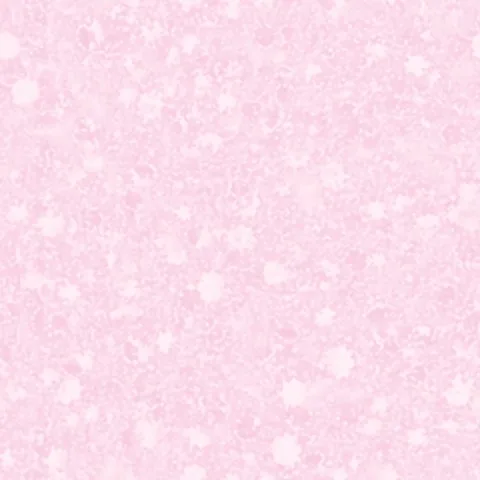
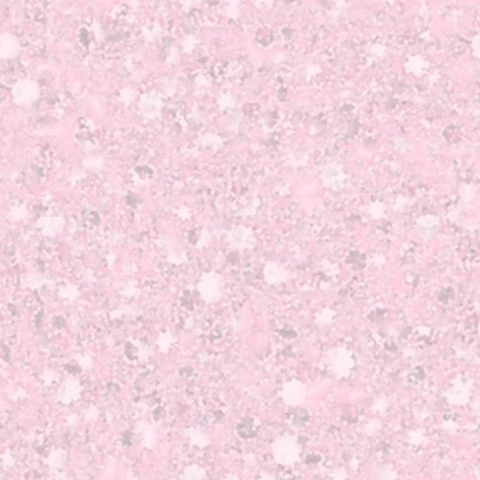
Lifestyle: match the home page look on every Lifestyle page; crisp glitter backgrounds site-wide
- Lifestyle pages now use the home page header (logo, nav, glitter drip) and footer
- Home page textures, white cards, pink-star pill buttons and kickers across Lifestyle
- Replace the blurry blotchy blush and bubblegum textures with crisp glitter (fixes home page sections and footer too)

Claude-Session: https://claude.ai/code/session_012hUCWDfECfivmHsQx64SRP

diff --git a/src/styles/lifestyle.css b/src/styles/lifestyle.css
@@ -419,3 +419,70 @@ body:has(.life-article-world) .sf-col h2{font:600 14px/1.4 Inter,sans-serif!impo
 .life.life-article-world{position:relative;isolation:isolate}
 .life.life-article-world::before{content:"";position:absolute;left:0;right:0;top:0;height:340px;z-index:-1;background:var(--gl-flecks),var(--gl-white),var(--gl-pink),var(--gl-gold),#f39dc2;background-size:110px 110px,140px 140px,97px 97px,121px 121px,auto;box-shadow:inset 0 -12px 18px -10px #9a1d5059}
 @media(max-width:760px){.life.life-article-world::before{height:220px}}
+
+/* ===== HOME PAGE LOOK FOR ALL LIFESTYLE PAGES (Jodie, 10 Oct 2026) =====
+   Same textures, cards, buttons, kickers and type as src/styles/home.css. */
+.life,.life.life-article-world{--hp-pink:#D62E73;--hp-deep:#B8245F;--hp-ink2:#4A3640;--hp-gold:#C8A96A;--hp-star:polygon(50% 0,62% 38%,100% 50%,62% 62%,50% 100%,38% 62%,0 50%,38% 38%);--hp-lift:0 30px 56px -34px rgba(110,10,50,.6);background:url(/images/brand/sh-blush.webp) 0 0/480px 480px!important;padding-top:0!important}
+.life.life-article-world::before,.life-halloween-background{display:none!important}
+.life h1 span,.life h2 span{color:var(--hp-pink)}
+.life p,.life .life-intro{color:var(--hp-ink2)}
+/* kickers: + LABEL + */
+.life .life-kicker{border:0!important;background:none!important;padding:0!important;border-radius:0!important;box-shadow:none!important;display:inline-flex!important;align-items:center;gap:10px;color:var(--hp-deep)!important;font:700 12px/1.5 Inter,sans-serif!important;letter-spacing:.24em!important}
+.life .life-kicker::before,.life .life-kicker::after{content:"";flex:none;width:10px;height:10px;background:var(--hp-pink);clip-path:var(--hp-star)}
+.life .life-card-copy .life-kicker,.life .life-lookbook-card .life-kicker{font-size:11px!important;letter-spacing:.18em!important}
+.life .life-card-copy .life-kicker::before,.life .life-card-copy .life-kicker::after,.life .life-lookbook-card .life-kicker::before,.life .life-lookbook-card .life-kicker::after{display:none}
+/* buttons: white pill, pink line, pink star */
+.life .life-button,.life .life-button-outline{min-height:48px;padding:0 26px;border-radius:999px;background:#fff!important;border:1.5px solid #E891B6!important;color:#1A1417!important;font:700 12.5px/1.2 Inter,sans-serif!important;letter-spacing:.12em;text-transform:uppercase;box-shadow:0 12px 24px -14px rgba(184,36,95,.7)!important;gap:9px}
+.life .life-button::before{content:"";width:11px;height:11px;flex:none;background:var(--hp-pink);clip-path:var(--hp-star)}
+.life .life-button>span[aria-hidden]{display:none}
+.life .life-button:hover{background:#FFF1F7!important}
+.life .life-button-small{min-height:44px;padding:0 18px;font-size:11px!important}
+/* hero */
+.life-hero{padding:150px 0 70px!important;background:radial-gradient(560px 460px at 74% 45%,rgba(255,255,255,.9),rgba(255,255,255,0) 70%),url(/images/brand/sh-blush.webp) 0 0/480px 480px!important;border:0!important}
+.life-hero-copy::before{display:none!important}
+.life-hero-note{color:var(--hp-ink2)}
+.life .life-sticker{display:none}
+.life-feature-label{background:#fff!important;border:0!important;padding:3px!important;border-radius:999px!important;transform:none!important;top:-16px!important;right:22px!important;font-size:0!important;background:url(/images/brand/gl-hot.webp) 0 0/200px!important;box-shadow:0 14px 24px -12px rgba(120,10,50,.6)}
+.life-feature-label::after{content:"Seasonal pick";display:block;background:#fff;border-radius:999px;padding:10px 18px 9px;color:var(--hp-deep);font:800 11.5px/1 Inter,sans-serif;letter-spacing:.16em;text-transform:uppercase;white-space:nowrap}
+/* glitter bands hold a white plate, like the home page method section */
+.life-band,.life-picks-band{background:url(/images/brand/gl-tile.webp) 0 0/360px 360px!important;border:0!important;padding:80px 0!important}
+.life-band>.life-section,.life-picks-band>.life-section{background:#fff;border-radius:26px;box-shadow:0 40px 70px -36px rgba(110,10,50,.7);padding:52px clamp(20px,4vw,52px)!important;max-width:1180px}
+/* cards: white, no outlines, deep soft shadow, photo fills the frame */
+.life .life-card,.life .life-lookbook-card,.life .life-category-card,.life .life-categories a{background:#fff!important;border:0!important;border-radius:22px!important;box-shadow:var(--hp-lift)!important;outline:0!important}
+.life-band .life-categories a,.life-picks-band .life-card{box-shadow:0 0 0 1.5px #F3D3E0,0 24px 40px -30px rgba(110,10,50,.45)!important}
+.life .life-card:hover,.life .life-lookbook-card:hover,.life .life-categories a:hover{box-shadow:0 0 0 2px #E891B6,0 30px 56px -34px rgba(110,10,50,.6)!important}
+.life .life-card-photo,.life .life-lookbook-image,.life .life-category-image{background:#fff!important;border:0!important;padding:10px 10px 0!important;border-radius:0!important;box-shadow:none!important}
+.life .life-card-photo img,.life .life-lookbook-image img,.life .life-category-image img{object-fit:cover!important;border:0!important;border-radius:14px!important}
+.life .life-card-copy{background:#fff!important;border:0!important;box-shadow:none!important}
+.life .life-card h3,.life .life-lookbook-card h3{color:#1A1417}
+.life .life-card-count,.life .life-category-count{color:var(--hp-ink2)!important}
+.life .life-pearl{display:none}
+.life .life-category-name{font:600 19px/1.2 Newsreader,Georgia,serif!important;color:#1A1417}
+.life .life-category-go{color:var(--hp-deep)!important;background:none!important;border:0!important;border-top:1px solid #F3D3E0!important;border-radius:0!important;font:700 11px/1.2 Inter,sans-serif!important;letter-spacing:.14em;text-transform:uppercase}
+.life .life-categories a[aria-current]{box-shadow:0 0 0 3px var(--hp-pink),0 24px 40px -30px rgba(110,10,50,.45)!important}
+/* section edges */
+.life-shelf,.life #browse{background:none!important;border:0!important}
+.life-category-hero{background:url(/images/brand/sh-blush.webp) 0 0/480px 480px!important;padding:150px 0 40px!important;border:0!important}
+.life .life-shelf-controls button{border:1.5px solid #E891B6!important;color:var(--hp-deep)!important;box-shadow:0 12px 24px -14px rgba(184,36,95,.7)!important}
+.life .life-shelf-note{color:var(--hp-ink2)!important}
+/* article pages: drop the old pink banner so the drip sits on the blush, keep the reading sheet white */
+.life.life-article-world .life-article,.life.life-article-world>#life-content{padding-top:120px}
+/* Friday email: white card on glitter, home-page type and button */
+.life>.life-signup,.life.life-article-world>.life-signup{max-width:none!important;margin:60px 0 0!important;padding:80px max(20px,calc((100% - 1100px)/2))!important;background:url(/images/brand/gl-tile.webp) 0 0/360px 360px!important}
+.life .life-signup .pf-box{max-width:1100px;margin-inline:auto;background:#fff!important;border:0!important;border-radius:26px!important;box-shadow:0 40px 70px -36px rgba(110,10,50,.7)!important}
+.life .pf .pf-k{color:var(--hp-deep)!important;font:700 12px/1.5 Inter,sans-serif!important;letter-spacing:.24em!important;text-transform:uppercase}
+.life .pf .pf-k::before{display:none!important}
+.life .pf .pf-h{font-family:Newsreader,Georgia,serif!important;font-weight:600!important;color:#1A1417!important}
+.life .pf input{border:1.5px solid #E891B6!important;border-radius:999px!important;background:#fff!important}
+.life .pf .pf-row button,.life .pf button[type=submit]{background:#fff!important;border:1.5px solid #E891B6!important;color:#1A1417!important;border-radius:999px!important;box-shadow:0 12px 24px -14px rgba(184,36,95,.7)!important;font-weight:700!important;letter-spacing:.12em}
+.life>.life-close,.life.life-article-world>.life-close{max-width:none!important;margin:0!important;background:url(/images/brand/sh-blush.webp) 0 0/480px 480px!important;border-radius:0!important;padding:34px max(20px,calc((100% - 1100px)/2)) 40px!important}
+.life>.life-close>*{max-width:1100px;margin-inline:auto}
+.life .life-text-link{color:var(--hp-deep)!important}
+@media(max-width:900px){
+ .life-hero{padding:100px 0 50px!important}
+ .life-category-hero{padding:100px 0 30px!important}
+ .life-band,.life-picks-band{padding:44px 0!important}
+ .life-band>.life-section,.life-picks-band>.life-section{border-radius:20px;margin-inline:12px;padding:30px 16px!important}
+ .life.life-article-world .life-article,.life.life-article-world>#life-content{padding-top:70px}
+ .life>.life-signup,.life.life-article-world>.life-signup{padding:44px 14px!important}
+}

diff --git a/src/styles/home-chrome.css b/src/styles/home-chrome.css
@@ -1,0 +1,56 @@
+/* Home page header and footer, shared with Lifestyle. Values match src/styles/home.css. */
+.hc-nav,.hc-foot{--pink:#D62E73;--deep:#B8245F;--ink:#1A1417;--ink2:#4A3640;--gold:#C8A96A;font-family:Inter,sans-serif;color:var(--ink);line-height:1.55}
+.hc-nav *,.hc-foot *{box-sizing:border-box}
+.hc-wrap{max-width:1180px;margin:0 auto;padding:0 32px;position:relative}
+.hc-logo{display:inline-flex;flex-direction:column;align-items:center;text-decoration:none;line-height:1}
+.hc-logo .l1{font:700 10.5px/1 Inter;letter-spacing:.42em;margin-right:-.42em;color:var(--ink);text-transform:uppercase}
+.hc-logo .l2{position:relative;font:600 48px/.9 Newsreader,Georgia,serif;letter-spacing:-.015em;margin-top:4px;color:var(--pink)}
+.hc-logo .l2 sup{font:700 11px/1 Inter;vertical-align:top;position:relative;top:6px;margin-left:2px;color:var(--deep)}
+.hc-logo .spark{position:absolute;width:14px;height:14px;right:-14px;top:-4px;background:var(--gold);clip-path:polygon(50% 0,60% 40%,100% 50%,60% 60%,50% 100%,40% 60%,0 50%,40% 40%)}
+.hc-logo .rule{display:flex;align-items:center;gap:8px;margin-top:6px}
+.hc-logo .rule i{width:34px;height:1px;background:var(--gold)}.hc-logo .rule b{width:7px;height:7px;background:var(--gold);clip-path:polygon(50% 0,62% 38%,100% 50%,62% 62%,50% 100%,38% 62%,0 50%,38% 38%)}
+.hc-nav{background:url(/images/brand/sh-blush.webp) 0 0/480px 480px;position:relative;z-index:20}
+.hc-nav .hc-wrap{display:grid;grid-template-columns:1fr auto 1fr;align-items:center;height:84px}
+.hc-nav ul{display:flex;gap:30px;list-style:none;margin:0;padding:0;font:600 13px/1 Inter;letter-spacing:.14em;text-transform:uppercase}
+.hc-nav ul a{text-decoration:none;color:var(--ink)}
+.hc-r{display:flex;justify-content:flex-end;align-items:center;gap:30px}
+.hc-btn{display:inline-flex;align-items:center;justify-content:center;gap:9px;min-height:46px;padding:0 22px;border-radius:999px;background:#fff;border:1.5px solid #E891B6;color:var(--ink);font:700 12px/1.2 Inter;letter-spacing:.12em;text-transform:uppercase;text-decoration:none;box-shadow:0 12px 24px -14px rgba(184,36,95,.7);white-space:nowrap}
+.hc-btn::before{content:"";width:11px;height:11px;flex:none;background:var(--pink);clip-path:polygon(50% 0,62% 38%,100% 50%,62% 62%,50% 100%,38% 62%,0 50%,38% 38%)}
+.hc-drip{position:absolute;left:0;right:0;top:100%;height:112px;background:url(/images/brand/drip-gloss.webp) repeat-x left top/930px 112px;pointer-events:none;filter:drop-shadow(0 10px 12px rgba(150,20,70,.32)) drop-shadow(0 2px 2px rgba(150,20,70,.25))}
+.hc-mnav{display:none;position:relative}
+.hc-mnav summary{list-style:none;cursor:pointer;display:inline-flex;align-items:center;min-height:48px;padding:0 16px;border-radius:999px;border:1.5px solid #E891B6;background:#fff;font:700 11px/1 Inter;letter-spacing:.14em;text-transform:uppercase}
+.hc-mnav summary::-webkit-details-marker{display:none}
+.hc-mnav nav{position:absolute;right:0;top:56px;z-index:50;background:#fff;border-radius:18px;padding:10px;min-width:220px;box-shadow:0 24px 44px -20px rgba(110,10,50,.6);display:grid}
+.hc-mnav nav a{display:flex;align-items:center;min-height:48px;padding:0 14px;font:600 15px/1.2 Inter;text-decoration:none;color:var(--ink);border-radius:10px}
+.hc-foot{position:relative;background:url(/images/brand/sh-bub.webp) 0 0/480px 480px;padding:54px 0 40px;text-align:center}
+.hc-foot::before{content:"";position:absolute;left:0;right:0;top:0;height:12px;background:url(/images/brand/gl-tile.webp) 0 0/300px}
+.hc-foot .hc-logo .l2{color:#8E1450}.hc-foot .hc-logo .spark{background:#fff}
+.hc-fcols{display:grid;grid-template-columns:repeat(3,minmax(0,1fr));gap:30px;max-width:760px;margin:34px auto 0;text-align:left}
+.hc-fcols h4{margin:0 0 12px;font:800 12px/1 Inter;letter-spacing:.2em;text-transform:uppercase;color:#8E1450}
+.hc-fcols a{display:block;font:600 15px/1.2 Inter;color:var(--ink);text-decoration:none;padding:6px 0}
+.hc-fsoc{display:flex;justify-content:center;gap:22px;margin:26px 0 0;font:700 13px/1 Inter;letter-spacing:.1em;text-transform:uppercase}
+.hc-fsoc a{color:var(--deep);text-decoration:none}
+.hc-fcopy{margin:18px 0 0;font-size:13px;color:var(--ink2)}.hc-fcopy a{color:inherit}
+@media (max-width:900px){
+ .hc-wrap{padding:0 18px}
+ .hc-nav .hc-wrap{grid-template-columns:auto 1fr;height:74px}
+ .hc-lft,.hc-r ul{display:none!important}
+ .hc-nav .hc-logo{justify-self:start;order:-1;align-items:flex-start}
+ .hc-logo .l1{font-size:9.5px;letter-spacing:.3em}.hc-logo .l2{font-size:34px}.hc-logo .rule{display:none}.hc-logo .spark{width:12px;height:12px;right:-12px}
+ .hc-r{gap:8px}.hc-btn{min-height:48px;padding:0 14px;font-size:11px;letter-spacing:.08em}
+ .hc-mnav{display:block}
+ .hc-drip{height:64px;background-size:530px 64px}
+ .hc-fcols{grid-template-columns:repeat(2,minmax(0,1fr));gap:22px}.hc-fcols a{padding:9px 0}
+}
+@media (max-width:360px){.hc-logo .spark{display:none}.hc-logo .l2{font-size:30px}.hc-btn{padding:0 10px;font-size:10px}}
+/* guard against site-wide rules that reuse the same class names */
+.hc-logo .rule{margin:6px 0 0!important;padding:0!important;border:0!important;width:auto!important;height:auto!important;background:none!important}
+.hc-nav li{margin:0;padding:0}
+.hc-fcols h4,.hc-fsoc,.hc-fcopy{padding:0}
+/* beat the site-wide footer rules in tdie-visual.css so the glitter footer shows */
+html body footer.hc-foot:not(#zq){background:url(/images/brand/sh-bub.webp) 0 0/480px 480px!important;background-image:url(/images/brand/sh-bub.webp)!important;background-color:#F68CBA!important;border-top:0!important}
+html body footer.hc-foot:not(#zq)::before{background-image:url(/images/brand/gl-tile.webp)!important}
+html body footer.hc-foot:not(#zq) .hc-logo .spark,html body footer.hc-foot:not(#zq) .hc-logo .rule i,html body footer.hc-foot:not(#zq) .hc-logo .rule b{background-image:none!important}
+html body footer.hc-foot:not(#zq) .hc-fsoc a{color:#B8245F}
+html body footer.hc-foot:not(#zq) .hc-fcols h4{color:#8E1450}
+.hc-logo .l1{white-space:nowrap}
